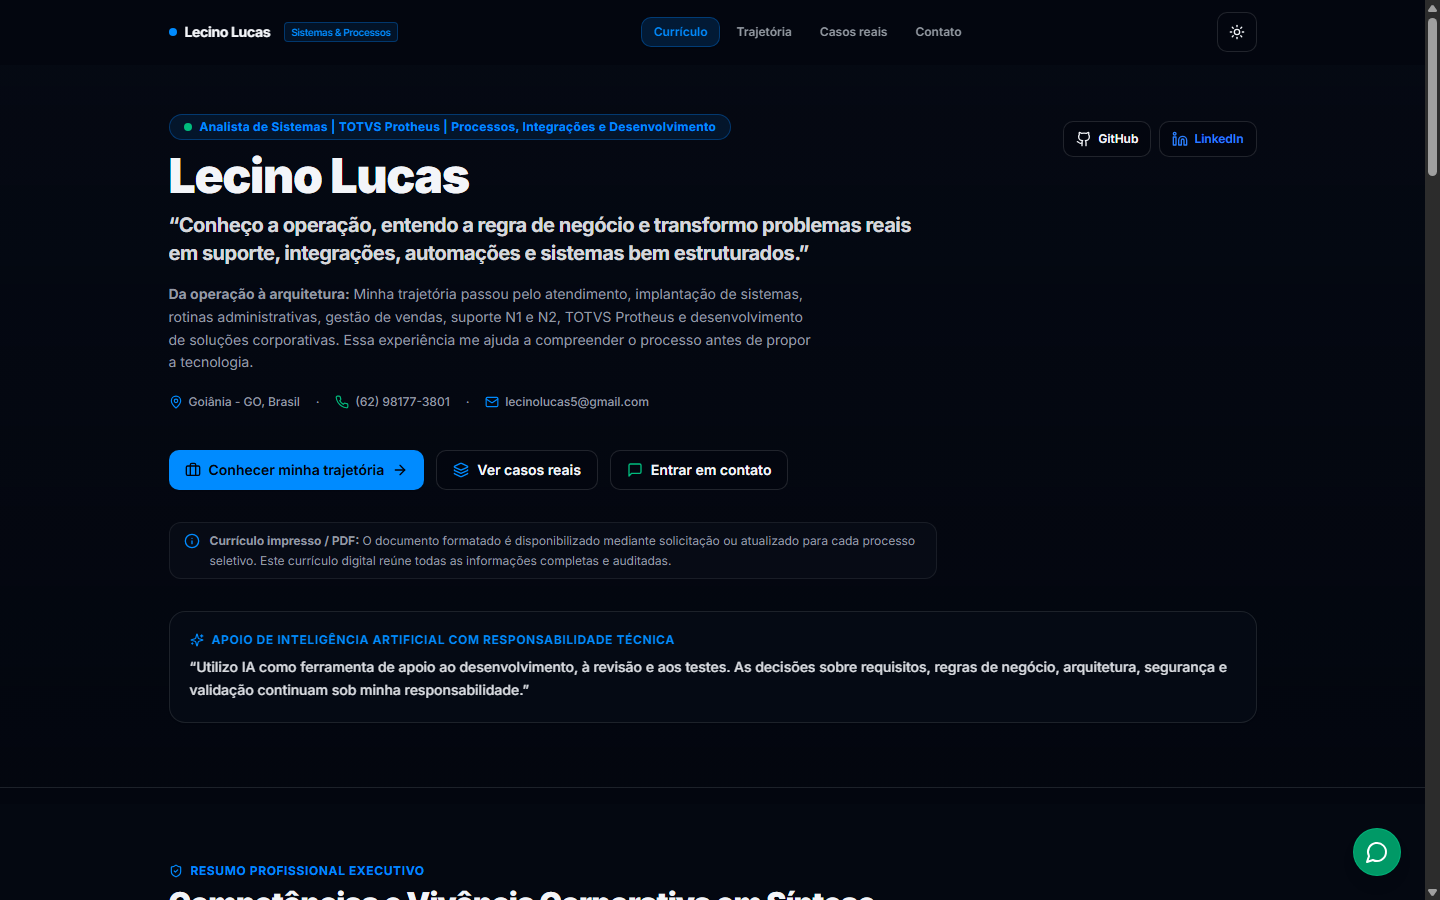
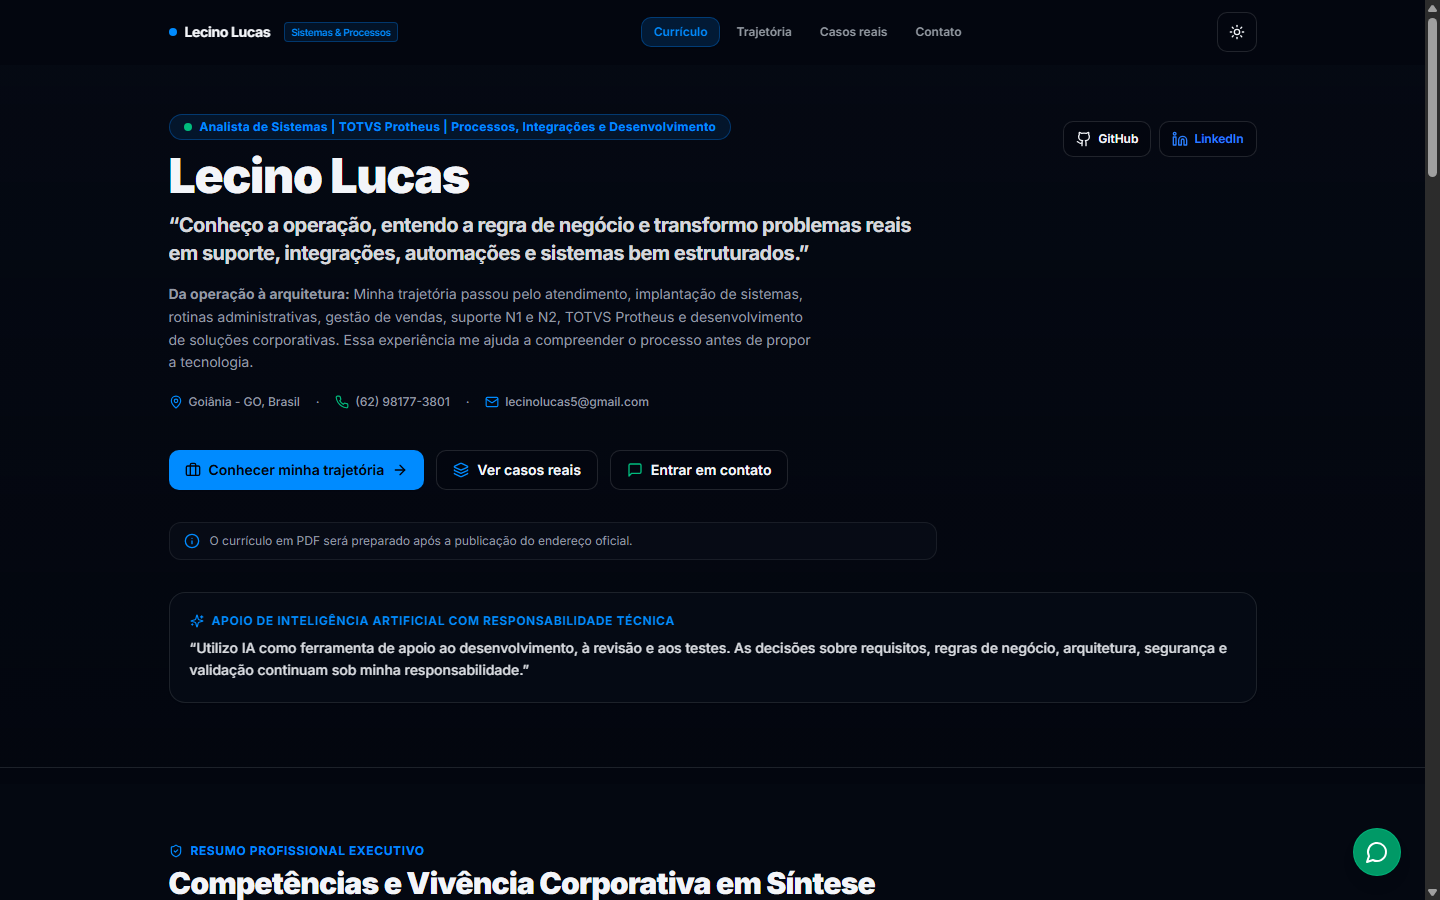
fix(frontend): ajustar mensagem editorial de curriculo em pdf e demonstracao portal rh

Changed region(s): [[0.125, 0.6844, 0.8438, 0.7778], [0.0938, 0.9333, 0.625, 1.0], [0.1562, 0.5911, 0.625, 0.6533]]

diff --git a/frontend/src/pages/home-page.test.tsx b/frontend/src/pages/home-page.test.tsx
@@ -84,11 +84,16 @@ describe("Fase 2: Currículo Digital por Evidências (Home Page)", () => {
 
     // Nota informativa sobre o currículo oficial em PDF (sem botão ativo de download)
     expect(
-      screen.getByText(/O documento formatado é disponibilizado mediante solicitação ou atualizado para cada processo seletivo/i)
+      screen.getByText(/O currículo em PDF será preparado após a publicação do endereço oficial\./i)
     ).toBeInTheDocument();
 
-    // Asserção negativa: zero botões ativos de download de PDF
+    // Asserções negativas: zero botões de download e zero termos proibidos
     expect(screen.queryByRole("link", { name: /download|baixar/i })).not.toBeInTheDocument();
+    expect(screen.queryByText(/disponível mediante solicitação|disponibilizado mediante solicitação/i)).not.toBeInTheDocument();
+    expect(screen.queryByText(/informações completas/i)).not.toBeInTheDocument();
+    expect(screen.queryByText(/informações auditadas/i)).not.toBeInTheDocument();
+    expect(screen.queryByText(/currículo atualizado/i)).not.toBeInTheDocument();
+    expect(screen.queryByRole("button", { name: /em breve/i })).not.toBeInTheDocument();
 
     // Pergunta principal do Mapa de Atuação
     expect(

diff --git a/frontend/src/components/portfolio/project-demo-banner.tsx b/frontend/src/components/portfolio/project-demo-banner.tsx
@@ -112,13 +112,13 @@ export function ProjectDemoBanner({ slug }: PropsProjectDemoBanner) {
         <div className="space-y-1">
           <div className="inline-flex items-center gap-1.5 text-xs font-bold uppercase tracking-wider text-tech-cyan">
             <span className="size-2 rounded-full bg-tech-cyan animate-pulse" />
-            Reconstrução Parcial Simulada (2 Telas)
+            Demonstração parcial com dados fictícios
           </div>
           <h3 className="text-base font-bold text-foreground">
             Explore a visão da vaga e o quadro Kanban de candidatos
           </h3>
           <p className="text-xs text-muted-foreground">
-            Reconstrução parcial com dados simulados, demonstrando o fluxo visual de recrutamento sem dependência de backend.
+            Demonstração parcial com dados fictícios, demonstrando o fluxo visual de recrutamento sem dependência de backend.
           </p>
         </div>
 

diff --git a/frontend/src/sections/specializations.tsx b/frontend/src/sections/specializations.tsx
@@ -118,7 +118,7 @@ export function Specializations() {
 
               <div className="mt-8 border-t border-border pt-4">
                 <p className="text-center text-xs text-muted-foreground">
-                  Currículo impresso / PDF disponibilizado mediante solicitação.
+                  O currículo em PDF será preparado após a publicação do endereço oficial.
                 </p>
               </div>
             </Reveal>
@@ -182,7 +182,7 @@ export function Specializations() {
 
               <div className="mt-8 border-t border-border pt-4">
                 <p className="text-center text-xs text-muted-foreground">
-                  Currículo impresso / PDF disponibilizado mediante solicitação.
+                  O currículo em PDF será preparado após a publicação do endereço oficial.
                 </p>
               </div>
             </Reveal>

diff --git a/frontend/src/pages/skills-page.tsx b/frontend/src/pages/skills-page.tsx
@@ -113,7 +113,7 @@ export function SkillsPage() {
 
             <div className="border-t border-border pt-4">
               <p className="text-center text-xs text-muted-foreground">
-                Currículo impresso / PDF disponibilizado mediante solicitação.
+                O currículo em PDF será preparado após a publicação do endereço oficial.
               </p>
             </div>
           </div>
@@ -171,7 +171,7 @@ export function SkillsPage() {
 
             <div className="border-t border-border pt-4">
               <p className="text-center text-xs text-muted-foreground">
-                Currículo impresso / PDF disponibilizado mediante solicitação.
+                O currículo em PDF será preparado após a publicação do endereço oficial.
               </p>
             </div>
           </div>

diff --git a/frontend/src/sections/contact.tsx b/frontend/src/sections/contact.tsx
@@ -70,8 +70,7 @@ export function Contact() {
           <Reveal className="mt-8 space-y-4">
             {/* Nota discreta sobre o currículo oficial em PDF */}
             <div className="flex items-start gap-2.5 rounded-lg border border-border/70 bg-card/50 p-3.5 text-xs text-muted-foreground">
-              <span className="font-semibold text-foreground">Currículo impresso / PDF:</span>
-              <span>Disponibilizado mediante solicitação ou atualizado para cada processo seletivo.</span>
+              <span>O currículo em PDF será preparado após a publicação do endereço oficial.</span>
             </div>
 
             <div className="grid gap-2.5 sm:grid-cols-2">

diff --git a/frontend/src/sections/curriculo-hero-section.tsx b/frontend/src/sections/curriculo-hero-section.tsx
@@ -144,7 +144,7 @@ export function CurriculoHeroSection() {
         <div className="flex items-start gap-2.5 rounded-lg border border-border/60 bg-muted/30 px-3.5 py-2 text-xs text-muted-foreground max-w-3xl">
           <Info className="size-4 shrink-0 text-primary mt-0.5" />
           <p className="leading-relaxed">
-            <strong>Currículo impresso / PDF:</strong> O documento formatado é disponibilizado mediante solicitação ou atualizado para cada processo seletivo. Este currículo digital reúne todas as informações completas e auditadas.
+            O currículo em PDF será preparado após a publicação do endereço oficial.
           </p>
         </div>
 

diff --git a/frontend/src/pages/contact-page.tsx b/frontend/src/pages/contact-page.tsx
@@ -98,10 +98,10 @@ export function ContactPage() {
           {/* Currículo Oficial */}
           <div className="tech-card p-6 space-y-2 text-xs text-muted-foreground">
             <h3 className="text-xs font-bold uppercase tracking-wider text-foreground">
-              Currículo impresso / PDF
+              Currículo em PDF
             </h3>
             <p className="leading-relaxed">
-              Disponibilizado mediante solicitação ou atualizado para cada processo seletivo.
+              O currículo em PDF será preparado após a publicação do endereço oficial.
             </p>
           </div>
 

diff --git a/frontend/src/sections/hero.tsx b/frontend/src/sections/hero.tsx
@@ -57,7 +57,7 @@ export function Hero() {
 
             {/* Nota discreta sobre currículo em PDF */}
             <div className="flex items-center gap-2 rounded-lg border border-border/70 bg-card/60 px-3.5 py-2 text-xs text-muted-foreground">
-              <span><strong>Currículo impresso / PDF:</strong> Disponibilizado mediante solicitação.</span>
+              <span>O currículo em PDF será preparado após a publicação do endereço oficial.</span>
             </div>
 
             <a

diff --git a/frontend/src/data/projetos.ts b/frontend/src/data/projetos.ts
@@ -201,7 +201,7 @@ export const projetos: Projeto[] = [
         demonstracao: {
           rotulo: "Abrir demonstração parcial",
           href: "/projetos/portal-rh/demo",
-          avisoFicticio: "Reconstrução parcial simulada (2 telas) com dados fictícios para demonstração do fluxo de recrutamento.",
+          avisoFicticio: "Demonstração parcial com dados fictícios para demonstração do fluxo de recrutamento.",
         },
       },
     },

diff --git a/frontend/src/components/layout/mobile-nav.tsx b/frontend/src/components/layout/mobile-nav.tsx
@@ -81,7 +81,7 @@ export function MobileNav() {
             <span>Falar no WhatsApp</span>
           </a>
           <p className="text-[11px] text-center text-muted-foreground pt-1">
-            Currículo impresso / PDF disponibilizado mediante solicitação.
+            O currículo em PDF será preparado após a publicação do endereço oficial.
           </p>
         </div>
       </SheetContent>
